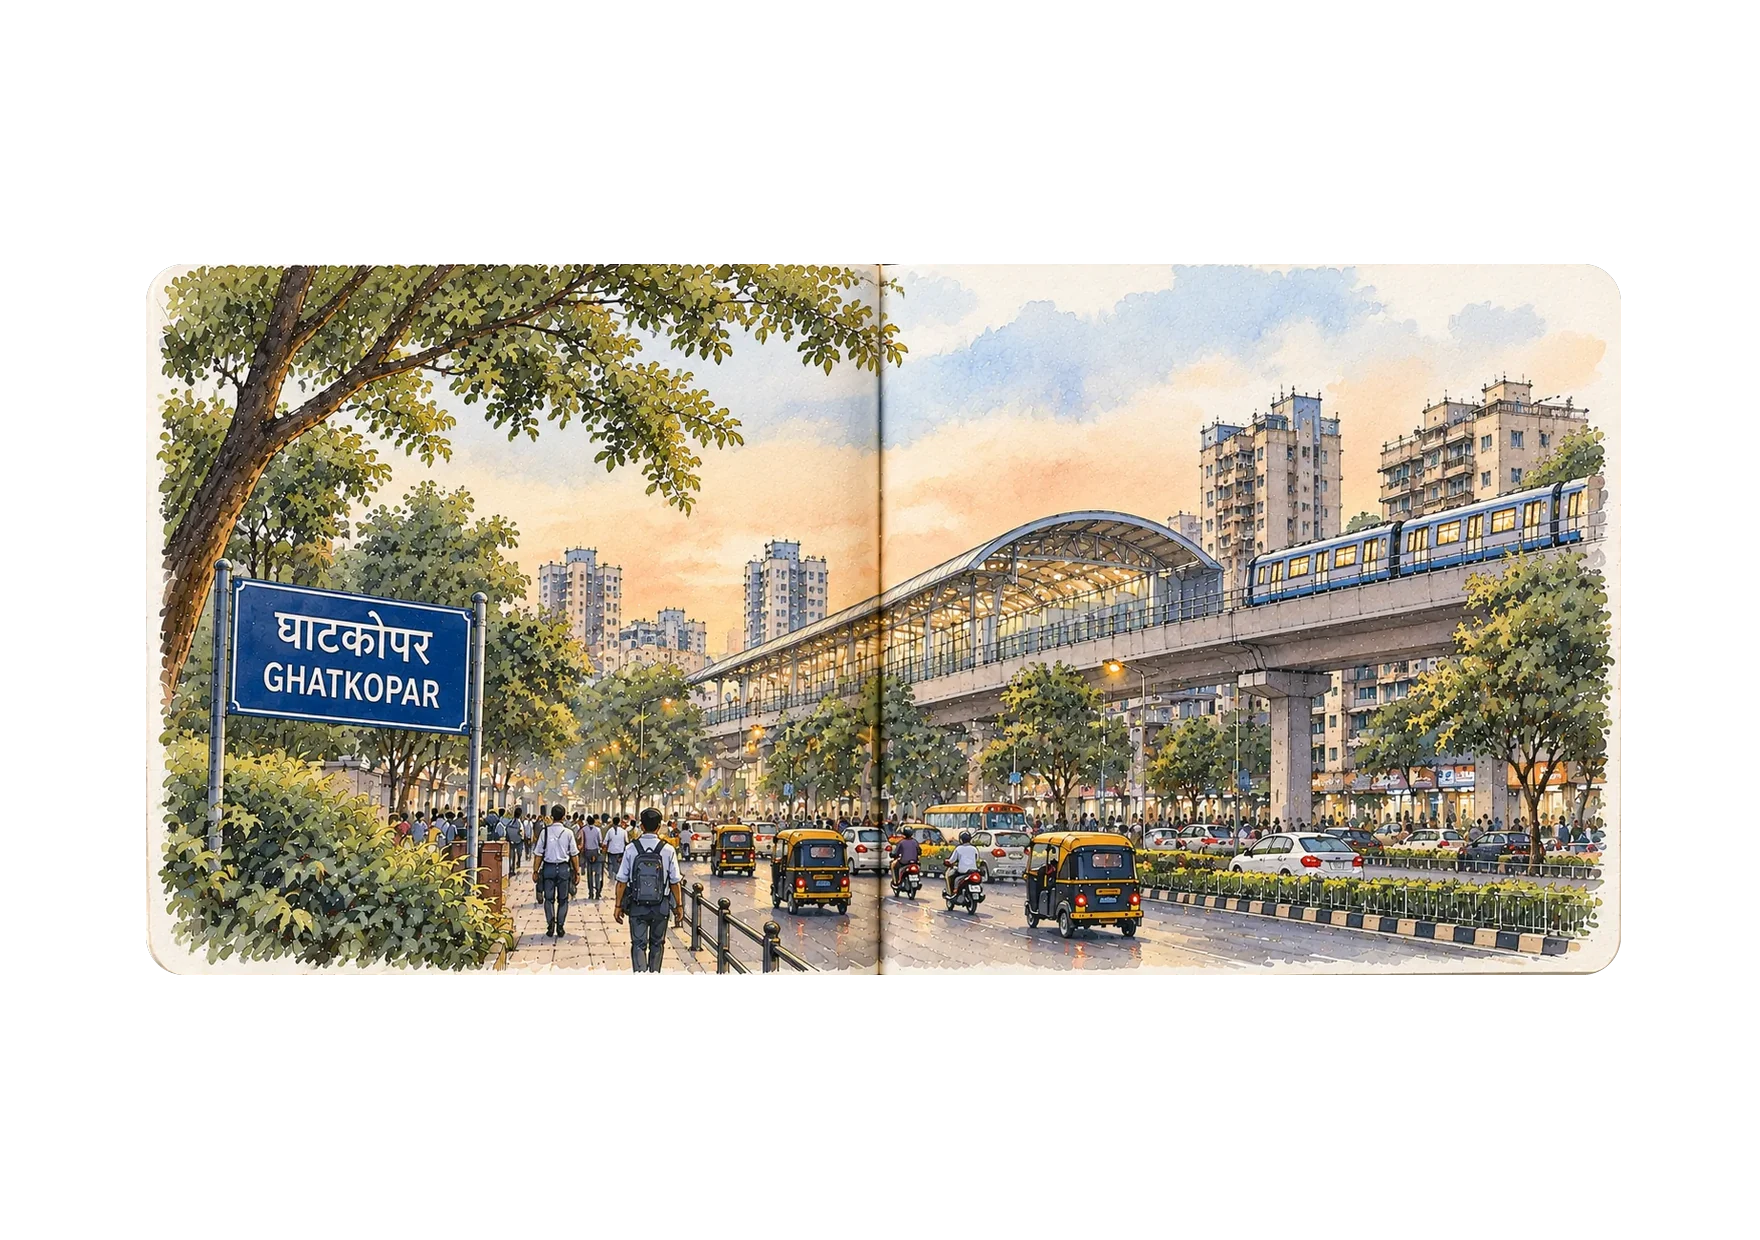
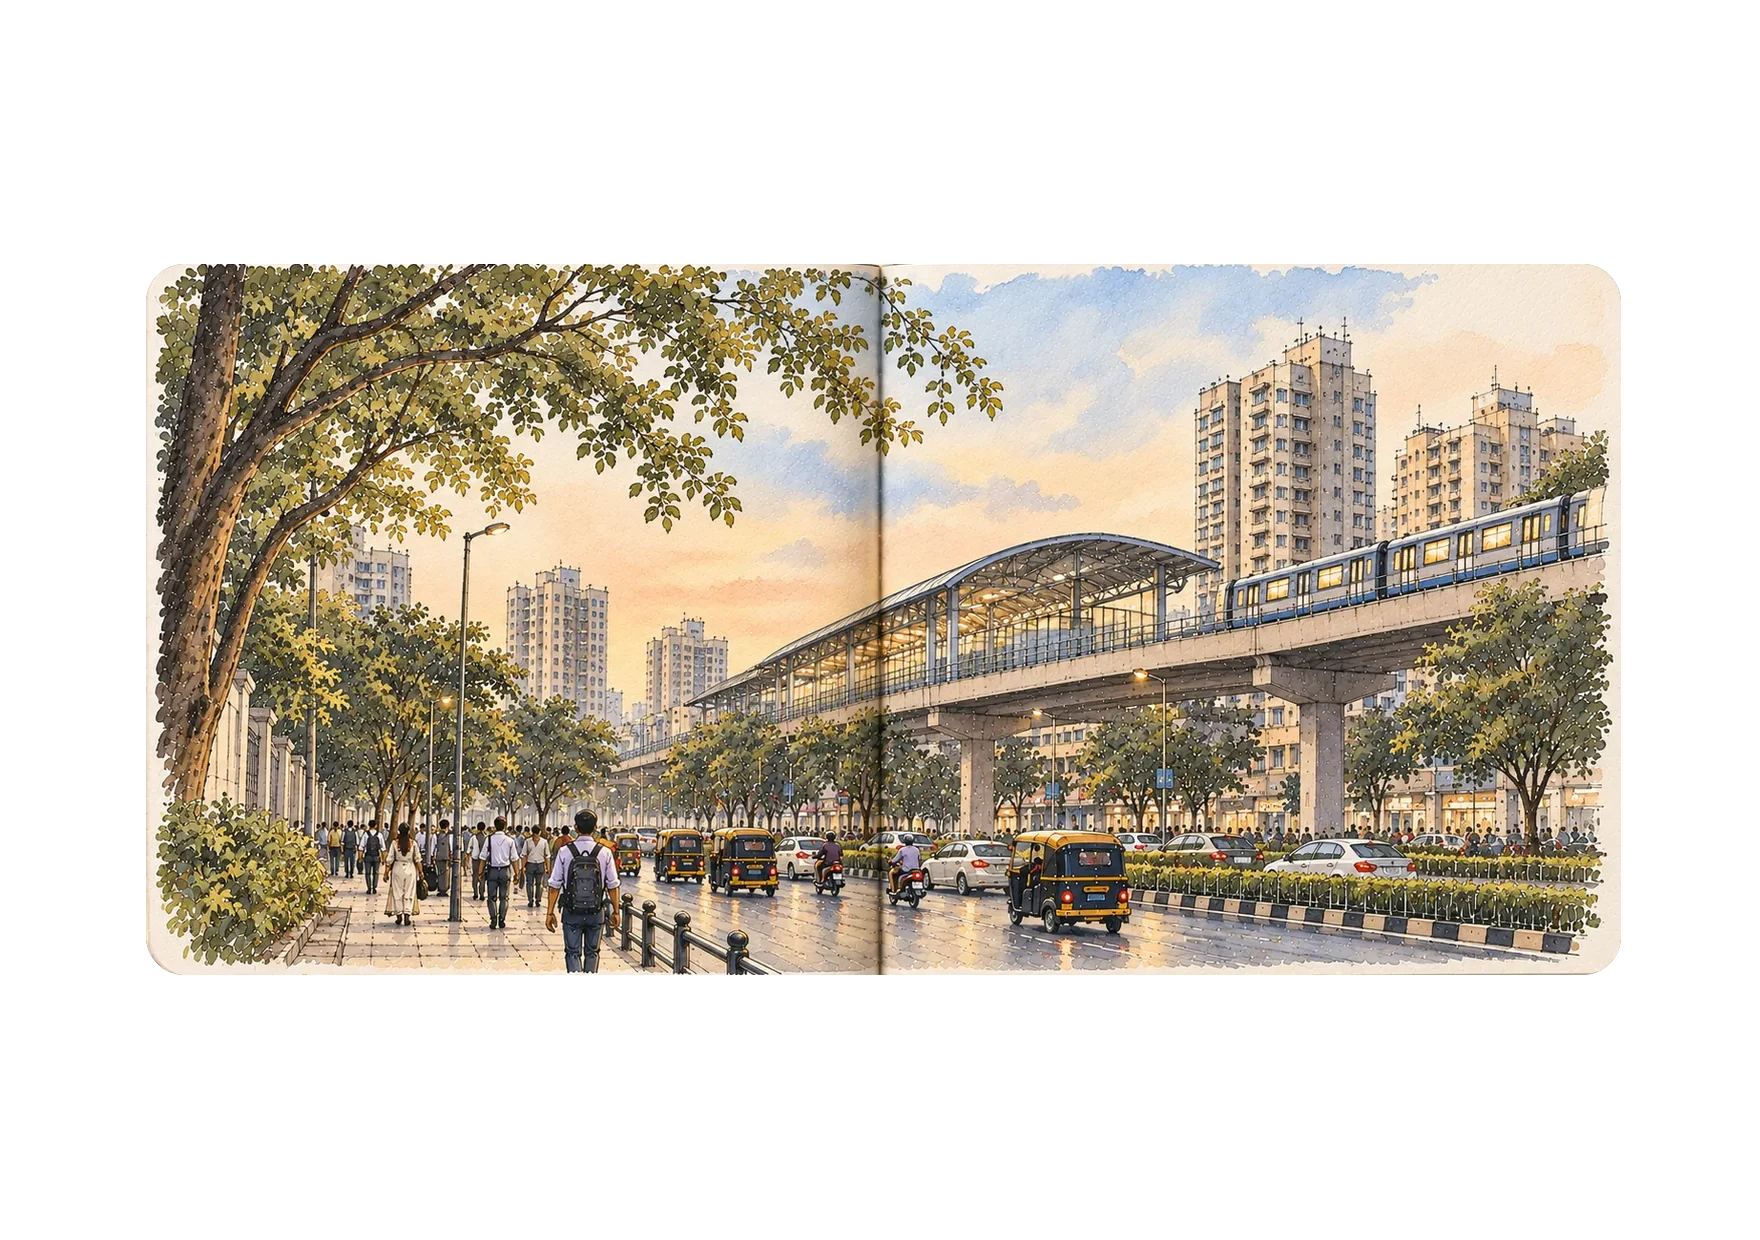
Sketchbook hero: new Ghatkopar spread as the first image

diff --git a/index.html b/index.html
@@ -46,7 +46,7 @@
 <link rel="preconnect" href="https://fonts.gstatic.com" crossorigin>
 <link rel="preload" as="style" href="https://fonts.googleapis.com/css2?family=Hanken+Grotesk:wght@400;500&family=Newsreader:ital,opsz,wght@1,6..72,500&display=swap" onload="this.onload=null;this.rel='stylesheet'">
 <noscript><link rel="stylesheet" href="https://fonts.googleapis.com/css2?family=Hanken+Grotesk:wght@400;500&family=Newsreader:ital,opsz,wght@1,6..72,500&display=swap"></noscript>
-<link rel="preload" as="image" href="images/sketchbook/spread-01.webp?v=7" type="image/webp" fetchpriority="high">
+<link rel="preload" as="image" href="images/sketchbook/spread-01.webp?v=8" type="image/webp" fetchpriority="high">
 <link rel="preload" as="font" type="font/woff2" href="fonts/instrument-serif.woff2" crossorigin>
 <link rel="stylesheet" href="styles.css?v=3">
 <link rel="stylesheet" href="sketchbook.css?v=6">
@@ -87,7 +87,7 @@
           <div class="sb-cast ambient" aria-hidden="true"></div>
           <div class="sb-cast contact" aria-hidden="true"></div>
           <div class="sb-cast hair" aria-hidden="true"></div>
-          <div class="sb-book" id="sbBook"><div class="sb-full"><img src="images/sketchbook/spread-01.webp?v=7" alt="" width="1760" height="1240" fetchpriority="high" decoding="async" draggable="false"></div></div>
+          <div class="sb-book" id="sbBook"><div class="sb-full"><img src="images/sketchbook/spread-01.webp?v=8" alt="" width="1760" height="1240" fetchpriority="high" decoding="async" draggable="false"></div></div>
         </div>
       </div>
     </div>
@@ -166,6 +166,6 @@
 </nav>
 
 <script src="site.js"></script>
-<script src="sketchbook.js?v=11"></script>
+<script src="sketchbook.js?v=12"></script>
 </body>
 </html>

diff --git a/sketchbook.js b/sketchbook.js
@@ -36,7 +36,7 @@
 
   const DIR = 'images/sketchbook/';
   /* one spread per spot in the riffle, so no page is ever shown twice */
-  const PAGES = Array.from({ length: 16 }, (_, i) => ({ url: DIR + 'spread-' + String(i + 1).padStart(2, '0') + '.webp?v=7' }));
+  const PAGES = Array.from({ length: 16 }, (_, i) => ({ url: DIR + 'spread-' + String(i + 1).padStart(2, '0') + '.webp?v=8' }));
   const M = PAGES.length, LAND = M - 1;
 
   const REDUCED = matchMedia('(prefers-reduced-motion: reduce)').matches;
